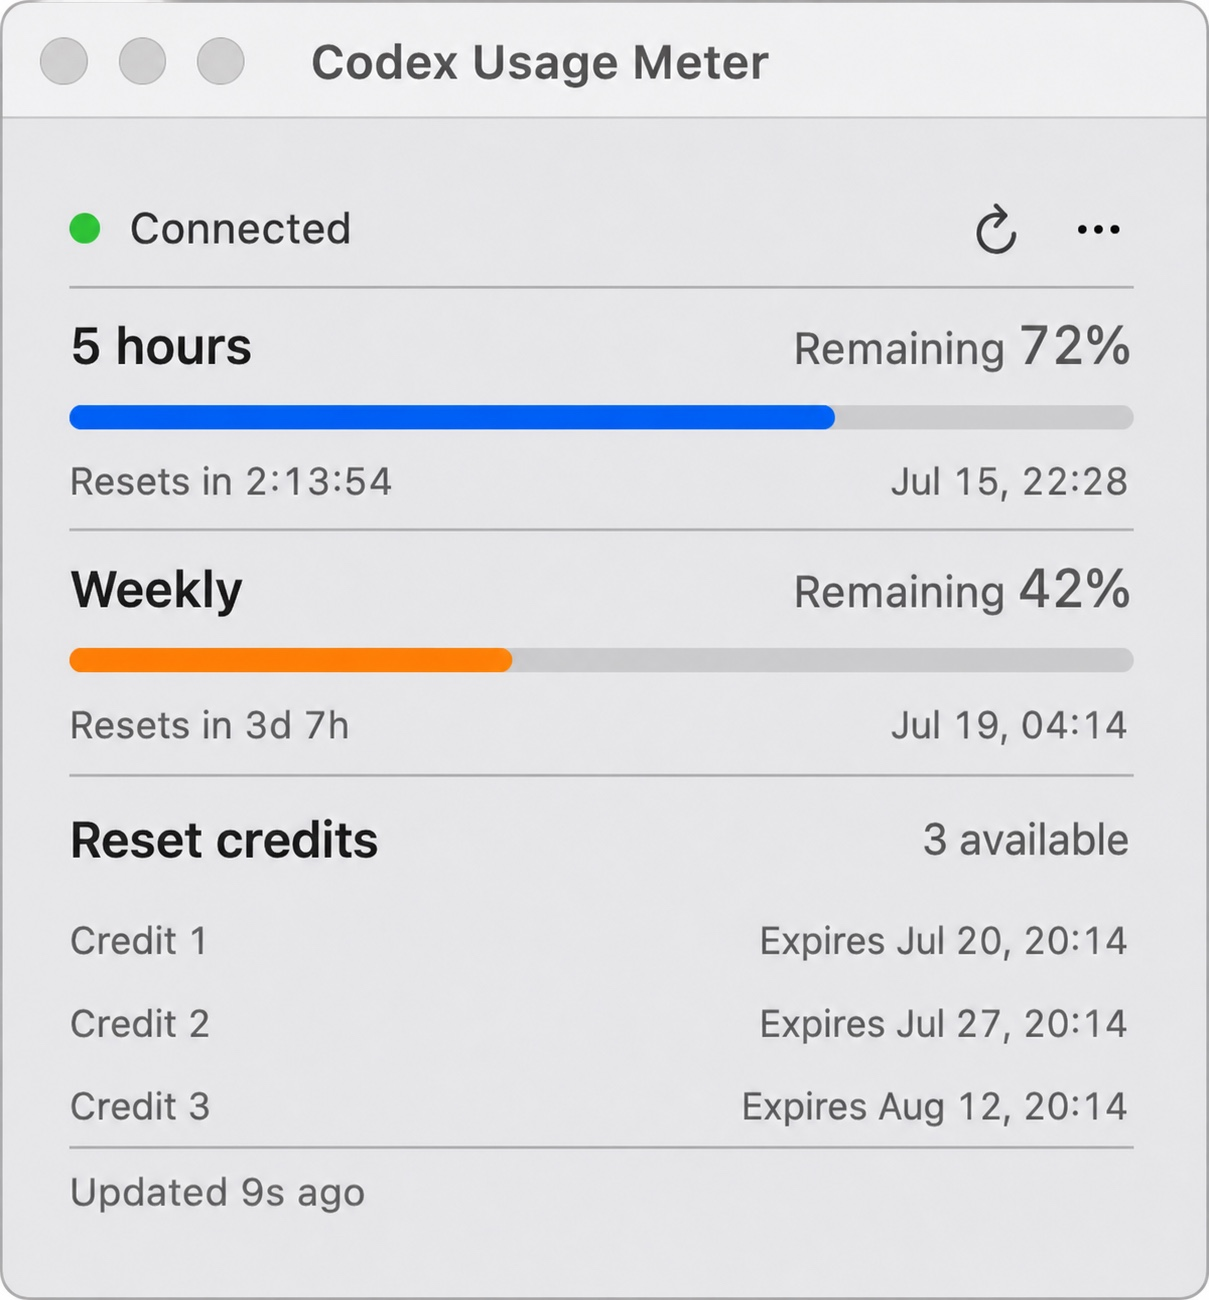
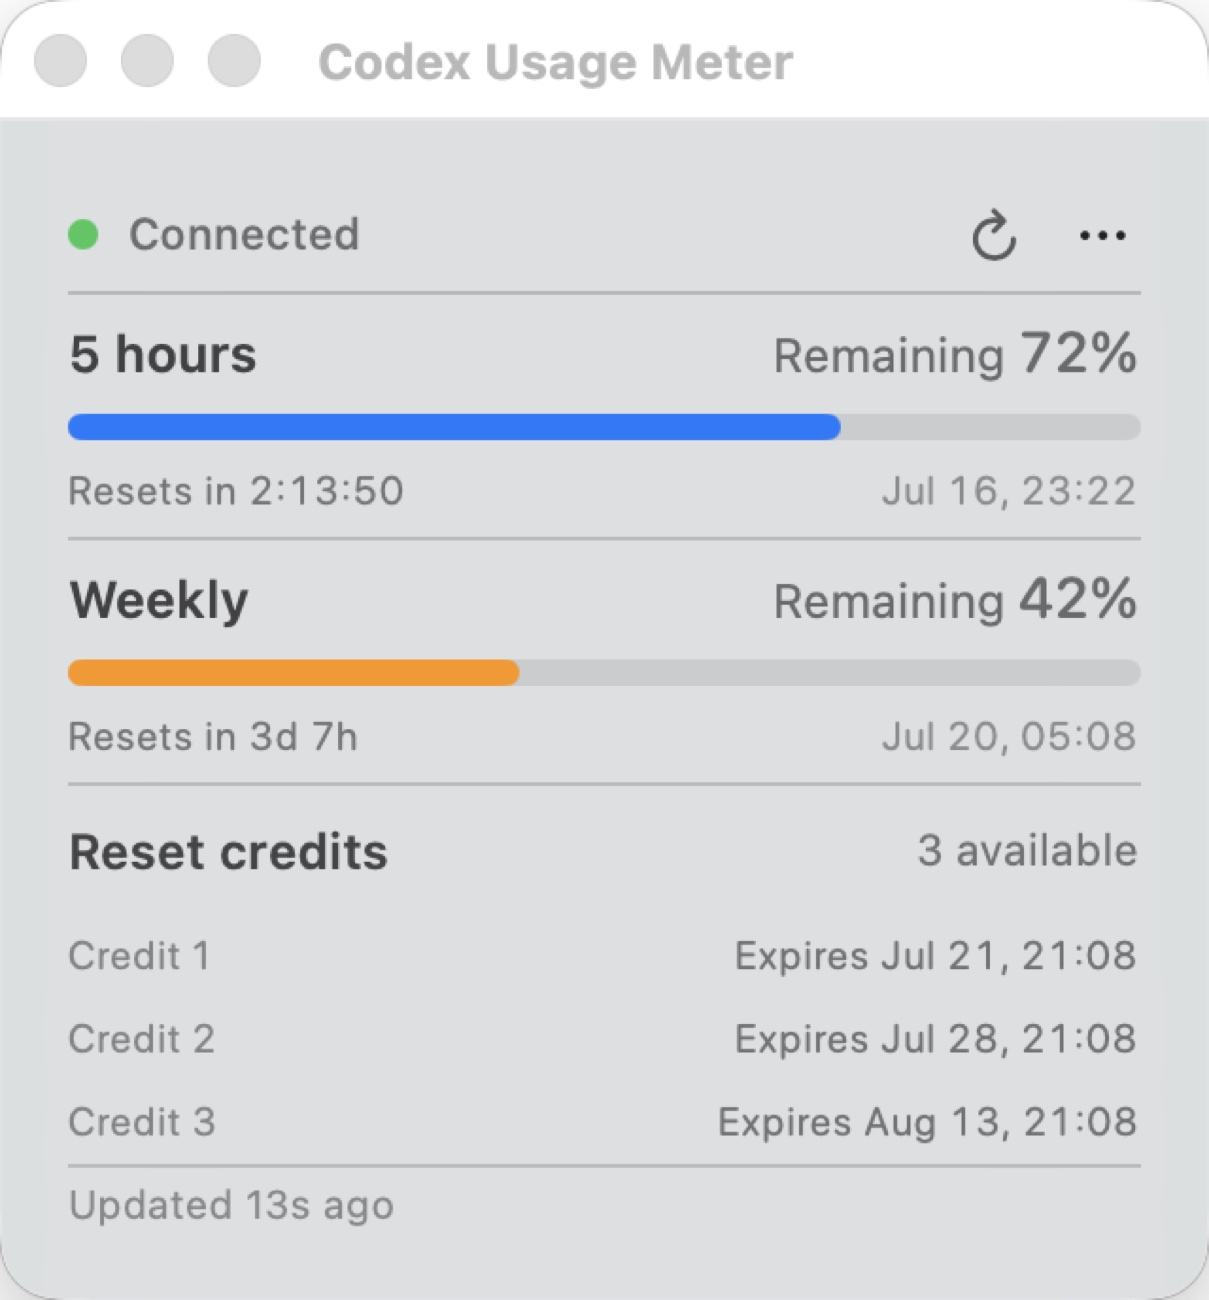
Rename reset credits and refresh screenshots

diff --git a/Sources/CodexMeter/MeterView.swift b/Sources/CodexMeter/MeterView.swift
@@ -139,7 +139,7 @@ struct MeterDetailView: View {
     private var resetCreditsRow: some View {
         VStack(spacing: 0) {
             HStack(spacing: 8) {
-                Text(MeterLocalization.text("credits.title", fallback: "重置券"))
+                Text(MeterLocalization.text("credits.title", fallback: "额度重置"))
                     .font(.system(size: 13, weight: .semibold))
                     .tracking(0.15)
                     .foregroundStyle(Color.primary.opacity(0.82))
@@ -148,7 +148,7 @@ struct MeterDetailView: View {
                     Text(
                         MeterLocalization.format(
                             "credits.count",
-                            fallback: "%d 张",
+                            fallback: "%d 次",
                             resetCredits.availableCount
                         )
                     )
@@ -172,7 +172,7 @@ struct MeterDetailView: View {
                                     Text(
                                         MeterLocalization.format(
                                             "credits.item",
-                                            fallback: "第 %d 张",
+                                            fallback: "第 %d 次",
                                             index + 1
                                         )
                                     )

diff --git a/README.zh-CN.md b/README.zh-CN.md
@@ -7,14 +7,14 @@
 **[下载 v0.1.1 macOS 版](https://github.com/ccssyy888/codex-usage-meter/releases/download/v0.1.1/Codex-Usage-Meter-v0.1.1-macOS.zip)** · [版本说明](https://github.com/ccssyy888/codex-usage-meter/releases/tag/v0.1.1) · [SHA-256 校验文件](https://github.com/ccssyy888/codex-usage-meter/releases/download/v0.1.1/Codex-Usage-Meter-v0.1.1-macOS.zip.sha256)
 
 <p align="center">
-  <img src="docs/images/overview-zh-cn.jpg" width="560" alt="Codex Usage Meter 显示额度和每张重置券到期时间">
+  <img src="docs/images/overview-zh-cn.jpg" width="560" alt="Codex Usage Meter 显示额度和每次额度重置的到期时间">
 </p>
 
 写代码正投入时，最不想做的就是停下来翻找另一个页面。Codex Usage Meter 平时安静地待在菜单栏，需要时看一眼，就能知道：
 
 - 不离开正在使用的应用，就能看到 5 小时剩余额度
 - 随时了解本周用量和准确刷新时间
-- 每张重置券单独列出，到期时间清清楚楚
+- 每次额度重置单独列出，到期时间清清楚楚
 - 自动刷新，连接中断后也会自己恢复
 - 简体中文和英文都用得顺手
 - 放心使用：无广告、无统计，不读取账号文件，也不扫描日志